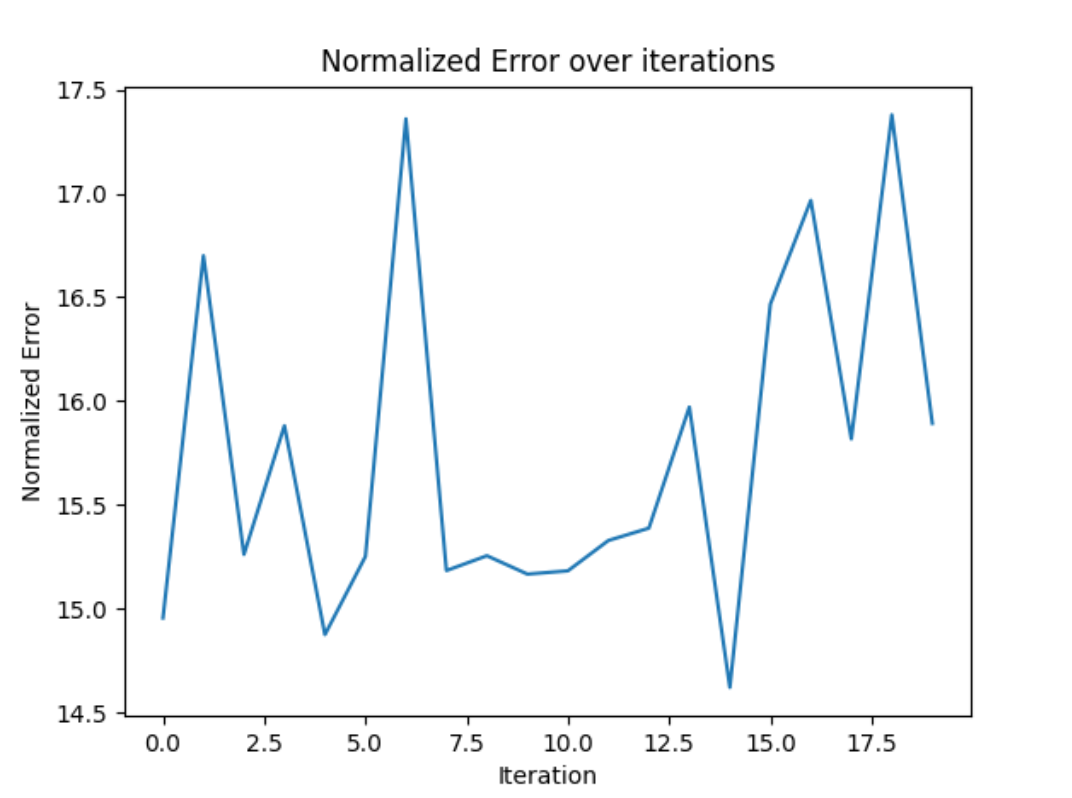
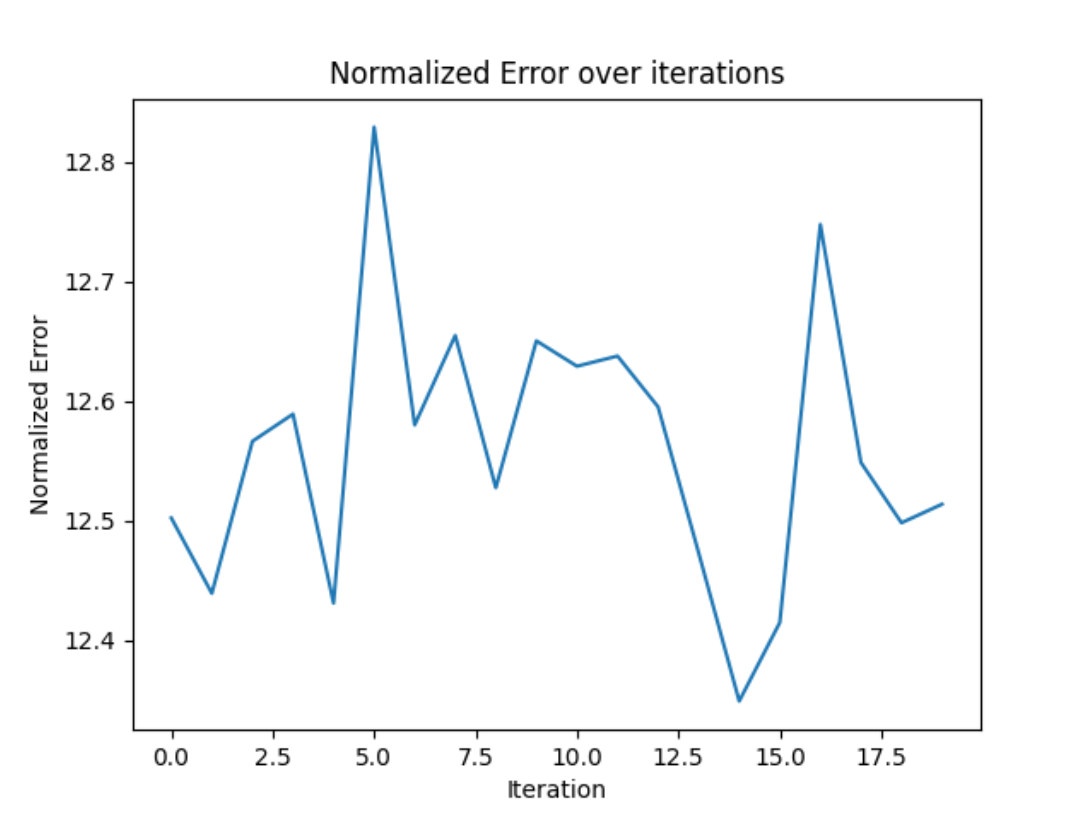
Final final code

Changed region(s): [[0.0, 0.0602, 0.9235, 0.9925], [0.8004, 0.5714, 0.8619, 0.6617]]

diff --git a/SNN/InsectLearning.py b/SNN/InsectLearning.py
@@ -229,21 +229,21 @@ with nengo.Network(label="STDP", seed=my_seed) as model:
     stdp_rule = stdp.STDP(learning_rate=2e-7)
     solv = nengo.solvers.LstsqL2(weights=True)
 
-    input_layer1 = create_network_layer(5, 5, stdp_rule, solv)
-    # the input layer is 5 by 5, so we want to spread the stimulus inputs evenly,
+    input_layer1 = create_network_layer(10, 10, stdp_rule, solv)
+    # the input layer is 10 by 10, so we want to spread the stimulus inputs evenly,
     # by positioning them at (1,1), (1,3), (3,1) and (3,3)
 
-    nengo.Connection(inp_collector_lgoal, input_layer1[1][1], learning_rule_type=stdp_rule, solver=solv)
-    nengo.Connection(inp_collector_lter, input_layer1[1][3],  learning_rule_type=stdp_rule, solver=solv)
-    nengo.Connection(inp_collector_lgoal, input_layer1[3][1],  learning_rule_type=stdp_rule, solver=solv)
-    nengo.Connection(inp_collector_lter, input_layer1[3][3],  learning_rule_type=stdp_rule, solver=solv)
+    nengo.Connection(inp_collector_lgoal, input_layer1[2][2], learning_rule_type=stdp_rule, solver=solv)
+    nengo.Connection(inp_collector_lter, input_layer1[2][7],  learning_rule_type=stdp_rule, solver=solv)
+    nengo.Connection(inp_collector_lgoal, input_layer1[7][2],  learning_rule_type=stdp_rule, solver=solv)
+    nengo.Connection(inp_collector_lter, input_layer1[7][7],  learning_rule_type=stdp_rule, solver=solv)
 
     hidden_layer = create_network_layer(16, 16, stdp_rule, solv)
 
     connect_layers(input_layer1, hidden_layer, stdp_rule, solv)
 
-    output_layer1 = nengo.Ensemble(10, dimensions=1)
-    output_layer2 = nengo.Ensemble(10, dimensions=1)
+    output_layer1 = nengo.Ensemble(50, dimensions=1)
+    output_layer2 = nengo.Ensemble(50, dimensions=1)
 
     connect_layers(hidden_layer, [[output_layer1]], stdp_rule, solv)
     connect_layers(hidden_layer, [[output_layer2]], stdp_rule, solv)
